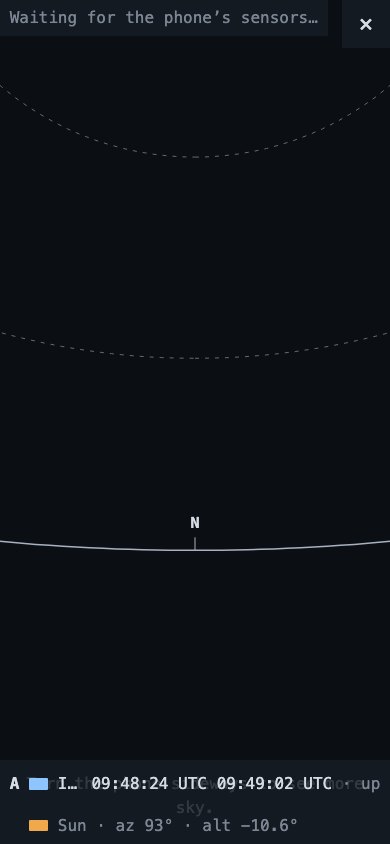
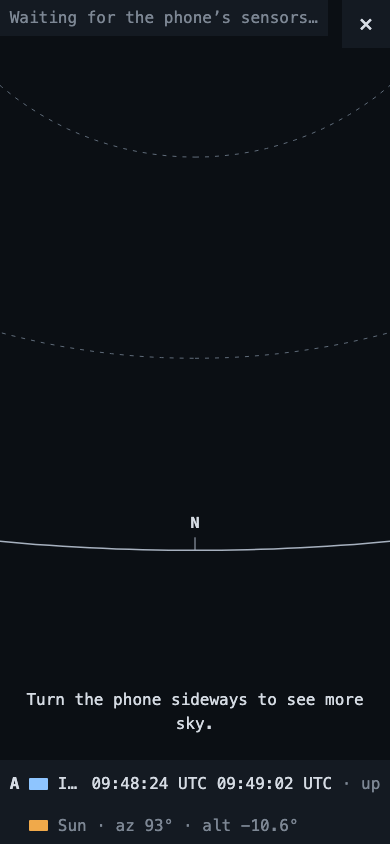
R73: the notes clear the legend strip on a screen
The advice line landed behind the legend - text over text in v1-sky-screen-portrait-390-dark-en.png - because the notes' place in the box is bottom: var(--row) and on a screen the legend is a strip along the bottom, at most two --tap rows high (FR-FSC-3). A line the reader cannot read is not advice, so on a screen both notes stand above the strip, with the two rows reserved whatever the strip holds so the line does not move as passes come and go.

The window root carries data-screen so the rule is the window lane's own, and a stylesheet test reads both rules. The ground note gets the same clearance, which is the follow-up the summary raised: v1-sky-screen-ground-844-* had it behind the legend on main already. Eight release captures and the two r73 docs shots re-shot; every other capture the run rewrote is restored from HEAD.

diff --git a/src/ui/components/guide/skychart/window/SkyWindow.test.tsx b/src/ui/components/guide/skychart/window/SkyWindow.test.tsx
@@ -8,6 +8,8 @@
  * refusal's note with the dome as the view and the compass-less phone losing
  * the option.
  */
+import { readFileSync } from 'node:fs';
+import { join } from 'node:path';
 import { act, fireEvent, render, screen, within } from '@testing-library/react';
 import { afterEach, beforeEach, describe, expect, it, onTestFinished, vi } from 'vitest';
 import { goldenPassFixture } from '../../../../../../tests/support/catalogFixtures';
@@ -710,5 +712,22 @@ describe('<SkyWindow>', () => {
       expect(screen.getByTestId('window-readout')).toBeInTheDocument();
       expect(screen.getByTestId('window-legend')).toBeInTheDocument();
     });
+  });
+});
+
+/**
+ * R73: where the notes stand on a screen. The legend is a strip along the
+ * bottom of the box, at most two `--tap` rows high (FR-FSC-3), and the notes'
+ * own place — `bottom: var(--row)` — is inside it: the advice line was drawn
+ * behind the legend's two rows, text over text, in
+ * `v1-sky-screen-portrait-390-dark-en.png`. On a screen they clear the strip.
+ * jsdom applies none of this, so the rule is read rather than measured, as
+ * `SkyScreen.test.tsx` reads the layer's own two.
+ */
+describe('the notes clear the legend strip on a screen (FR-FSC-11, FR-FOL-5, FR-FSC-3)', () => {
+  it('stands the advice and the ground note above the strip, and only on a screen', () => {
+    const css = readFileSync(join(process.cwd(), 'src/ui/components/guide/skychart/window/SkyWindow.module.css'), 'utf8');
+    expect(css).toMatch(/\.groundNote,\s*\.turnNote \{\s*bottom: var\(--row\);/);
+    expect(css).toMatch(/\.window\[data-screen='true'\] \.groundNote,\s*\.window\[data-screen='true'\] \.turnNote \{\s*bottom: calc\(2 \* var\(--tap\) \+ var\(--row\) \/ 2\);/);
   });
 });

diff --git a/src/ui/components/guide/skychart/window/SkyWindow.module.css b/src/ui/components/guide/skychart/window/SkyWindow.module.css
@@ -271,6 +271,17 @@
   bottom: var(--row);
 }
 
+/* R73: on the sky screen the bottom of the box is not free — the legend is a
+   strip along it, at most two `--tap` rows high (FR-FSC-3) — so the notes stand
+   above the strip rather than behind it. Two rows are reserved whatever the
+   strip holds, so the line does not move as passes come and go. The reserve is
+   unconditional on a screen because the legend is drawn in every state that has
+   a note in it (`buried` has neither). */
+.window[data-screen='true'] .groundNote,
+.window[data-screen='true'] .turnNote {
+  bottom: calc(2 * var(--tap) + var(--row) / 2);
+}
+
 /* The buried note is the middle of a box that has nothing else in it. */
 .buriedNote {
   top: 50%;

diff --git a/src/ui/components/guide/skychart/window/SkyWindow.tsx b/src/ui/components/guide/skychart/window/SkyWindow.tsx
@@ -460,7 +460,7 @@ export function SkyWindow(props: SkyChartProps) {
       className={[styles.window, className].filter(Boolean).join(' ')}
       data-state={state}
       data-ground={ground}
-      {...(onScreen ? { 'data-orientation': upright ? 'portrait' : 'landscape' } : {})}
+      {...(onScreen ? { 'data-screen': 'true', 'data-orientation': upright ? 'portrait' : 'landscape' } : {})}
       data-look-az={quantise(look.azDeg)}
       data-look-alt={Math.round(look.altDeg)}
     >
